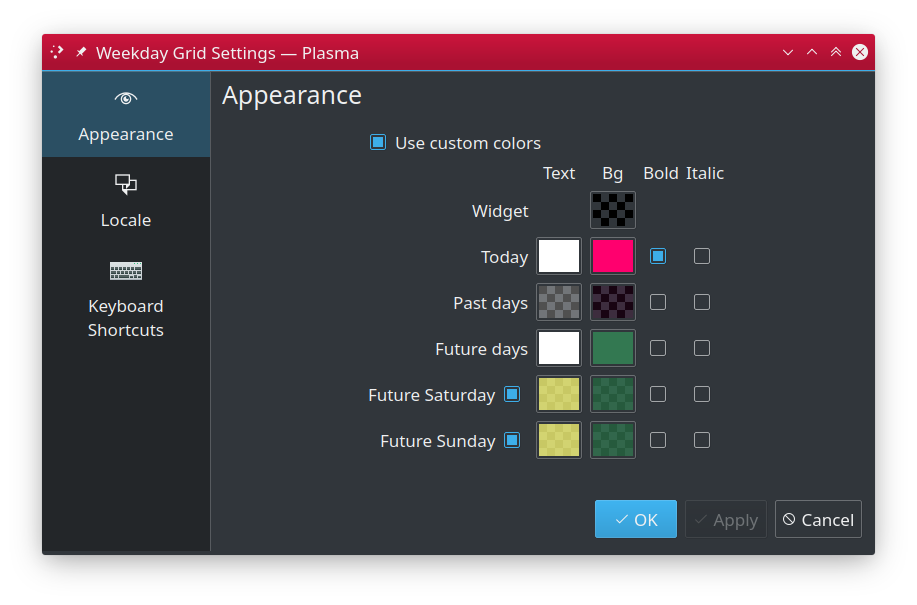
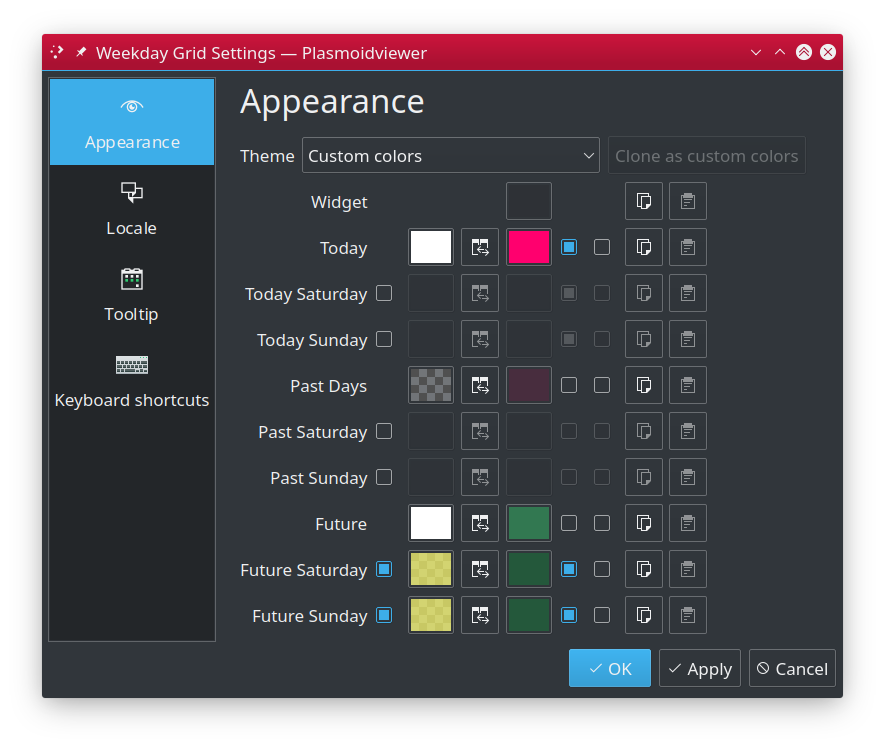
Updated appearance docs

diff --git a/src/contents/ui/configAppearance.qml b/src/contents/ui/configAppearance.qml
@@ -161,6 +161,7 @@ ColumnLayout {
 		property var clipboard: undefined
 
 		// Grid header
+/*
 		LabelCenter { Layout.columnSpan: 2 }
 		LabelCenter { text: i18n('Text') }
 		LabelCenter {}
@@ -169,6 +170,7 @@ ColumnLayout {
 		LabelCenter { text: i18n('Italic') }
 		LabelCenter {}
 		LabelCenter {}
+*/
 
 		// widget background
 		LabelRight { text: i18n('Widget') }

diff --git a/README.md b/README.md
@@ -35,16 +35,37 @@ week days.
 
 ![Appearance](img/config-appearance.png)
 
- * **Use custom colors**: enable to override default appearance.
+Allows you to select one of predefined color theme create own color style, either from scratch or using existing
+theme as your starting point.
+
+ * **Theme**: changes widget color theme. Switch to "Custom colors" to use own colors.
+ * **Clone as custom colors**: Copies colors from currently set theme to custom color editior.
+
+ * Color items
    * **Widget**: specifies general widget background color. 
-   * **Past days**: appearance of past week days
    * **Today**: appearance of current day
-   * **Future days**: appearance of remaining, future days of the week.
-   * **Furure Saturday**: appearance of future Saturday. If not enabled, "Future days" settings will be used.
-   * **Future Sunday**: appearance of future Sunday. If not enabled, "Future days" settings will be used.
+   * **Today Saturday**: optional, separate appearance of current day if it is Saturday. If not enabled "Today" is used.
+   * **Today Sunday**: optional, separate appearance of current day if it is Sunday. If not enabled, "Today" is used.
+   * **Past**: appearance of past week days
+   * **Past Saturday**: optional, separate appearance of past Saturday. If not enabled, "Past" is used.
+   * **Past Sunday**: optional, separate appearance of past Sunday. If not enabled, "Past" is used.
+   * **Future**: appearance of remaining, future days of the week.
+   * **Furure Saturday**: optional, separate appearance of future Saturday. If not enabled, "Future" will be used.
+   * **Future Sunday**: optional, separate appearance of future Sunday. If not enabled, "Future" will be used.
+
+![Theme item settings](img/config-appearance-item.png)
+
+ 1. Configuration item label
+ 1. On/Off switch for optional configuration items
+ 1. Background color
+ 1. Swaps Background <-> Foreground colors
+ 1. Foreground (text) color
+ 1. Boldface appearance switch
+ 1. Italic appearance switch
+ 1. Copy all item attributes to internal clipboard
+ 1. Paste attributes from internal clipboard
 
 **NOTES:** 
-
   * For each color you can specify transparency ("alpha channel") from `0` meaning full transparency, to `255` meaning full opaque.
   * Colors are **layered** to allow fancy configuration. Widget general background color is **always** drawn for each day then it is overlaid
     by background color as set for specific type of day.
